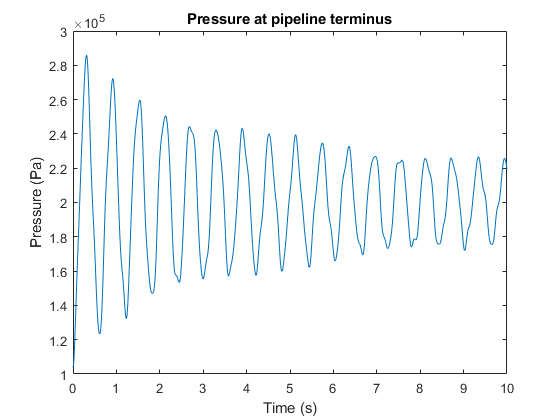
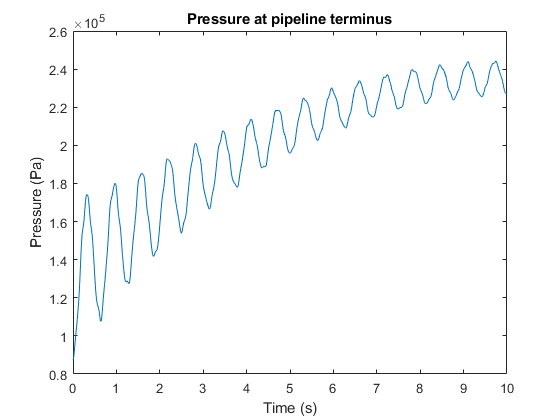
Add files via upload

diff --git a/test01.m b/test01.m
@@ -1,15 +1,17 @@
+% Auralius Manurung, ME, Universitas Pertamina
+%
+% Based on the paper by:
+%
 % Tehuan Chen, Chao Xu, Qun Lin, Ryan Loxton, Kok Lay Teo,
 % Water hammer mitigation via PDE-constrained optimization,
 % Control Engineering Practice,
-% Volume 45,
-% 2015,
-% Pages 54-63
+% Volume 45, 2015, pp. 54-63
 
 clc
 close all
 clear
 
-% Parameters
+% The parameters
 L = 200;    % m
 D = 100e-3; % m
 rho = 1000; % kg/m3
@@ -17,14 +19,18 @@ c = 1200;   % m/s
 f = 0.03;
 P = 2e5;    % Pa
 
-Nl = 11;
-dt = 0.0001;
-dl = L/(Nl-1);
+m = 16;       % Even integer, number of the pipeline segments
+N = m + 1;    % Number of the pipeline nodes
+dt = 0.00001; % Crazy small number ;-)
+dl = L / m;
 
+% Initial values for v
 u_max = 2;
-v = u_max*ones(1, Nl);
-l = linspace(0, L, Nl);
-p = P-2*rho*f/D*l;
+v = u_max*ones(1, m+1);  % See Sec. 4 of the referenced paper
+
+% Initial values for p
+l = linspace(0, L, m + 1);
+p = P - 2 * rho * f / D * l;
 
 hfig = figure;
 
@@ -32,47 +38,50 @@ subplot(2,1,1)
 h1 = plot(0,0);
 xlabel('$\ell$', 'Interpreter', 'latex')
 ylabel('$v(\ell)$', 'Interpreter', 'latex')
-htext = text(L/2,0, '');
-ylim([0 u_max+1])
+htext = text(L/2, u_max/2, '');
+ylim([0 u_max])
 
 subplot(2,1,2);
 h2 = plot(0,0);
 xlabel('$\ell$', 'Interpreter', 'latex')
 ylabel('$p(\ell)$', 'Interpreter', 'latex')
-ylim([0 500*P])
+ylim([0 P+0.2*P])
 
 T = 10;
 t = 0:dt:T;
 p_terminus = zeros(1, length(t));
 
+p_dot = zeros(1, m+1);
+v_dot = zeros(1, m+1);
+
 % The simulation starts here
-for j = 1 : length(t)      % time-wise iteration
-    p_next = p;
-    v_next = v;
+for k = 1 : length(t)                         
+    
+    i = 2 : N-1;
+    v_dot(i) = -1/rho * (p(i+1)-p(i-1)) / (2*dl) - f/(2*D) .* ...
+               abs(v(i)).*v(i);
+    p_dot(i) = -rho*c^2 * (v(i+1)-v(i-1)) / (2*dl);  
 
-    k = 2 : Nl-1;
-    v_next(k) = -1/rho * (p(k+1)-p(k-1)) / (2*dl) - f/(2*D) .* abs(v(k)).*v(k);
-    p_next(k) = -rho*c^2 * (v(k+1)-v(k-1)) / (2*dl);  
-
-    p = p_next*dt + p;
-    v = v_next*dt + v;
+    p = p_dot*dt + p;
+    v = v_dot*dt + v;
 
     % Apply BC
-    v(1) = u_max;                           % Dirchlet
-    v(end) = u_max - u_max/T*(j-1)*dt;      % Dirchlet
-    p(1) = P;                               % Dirchlet
-    p(end) = p(end-2);                      % Neumann
+    v(N) = u_max - u_max / T * (k-1) * dt;           % See Sec. 4.1
+    p(N) = p(N) + dt * rho*c^2/dl * ( v(N-1)-v(N) );        
 
-    if (rem((j-1), 0.1/dt)==0)
+    v(1) = v(1) + dt * ( 1/rho*dl*(P-p(2)) - f/(2*D)*v(1)*abs(v(1)) );    
+    p(1) = P;                                
+
+    if (rem((k-1), 0.1/dt) == 0) % Write to a GIF file every 0.1s
         set(h1, 'XData', l, 'YData',v);
         set(h2, 'XData', l, 'YData',p);
-        drawnow;
-        htext.Position = [L/2 (max(v)+min(v))/2 0];
-        htext.String = ['t = ', num2str((j-1)*dt)];
-        write2gif(hfig, j, 'waterhammer.gif', 0.1);
+        drawnow;       
+        htext.String = ['t = ', num2str((k-1)*dt)];
+        write2gif(hfig, k, 'waterhammer.gif', 0.1);
     end
 
-    p_terminus(j) = p(end);
+    % Log pressure at the valve
+    p_terminus(k) = p(m);
 end
 
 figure
